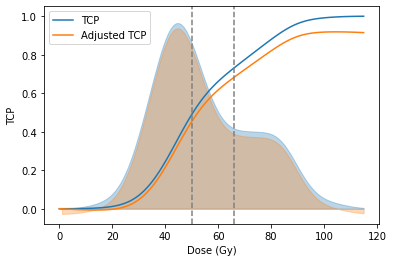
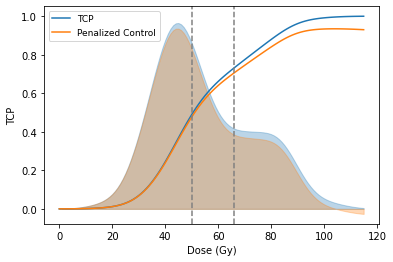
fixed NTCP; fig 2 probably ok
2c might not have handled HR vs RR correctly

diff --git a/analysis.py b/analysis.py
@@ -26,14 +26,20 @@ import plotly.graph_objs as go
 from sklearn.neighbors import KernelDensity
 from sklearn.cluster import KMeans
 from sklearn.mixture import GaussianMixture
+from scipy.stats import norm
+from scipy import special
+erf = special.erf
+pdf = norm.pdf
+cdf = norm.cdf
+ppf = norm.ppf
 
 
 # load data; alpha_g calculated with the constants below, then GARD calculated
 # with patient-specific n, d
-df = pd.read_csv('/Users/Emily/tnbc/data.csv')
+df = pd.read_csv('data.csv')
 # nsclc = pd.read_csv('/Users/Emily/tnbc/lc_data.csv')
 df = df.drop(columns=['Unnamed: 0'])
-tcc = pd.read_csv('/Users/Emily/tnbc/TCCdata.csv')
+tcc = pd.read_csv('TCCdata.csv')
 tcc.insert(1, 'Source', 'TCC')
 
 # constants/calculations
@@ -52,7 +58,7 @@ tcc['alpha_g'] = ag
 gard = n*d*(ag+beta*d)
 tcc['GARD'] = gard
 '''
-# set cut-point, SOC range
+# set cut-point, standard-of-care (SOC) range
 gard_t = 22
 high = 66 
 low = 50 
@@ -242,7 +248,7 @@ plt.scatter(gard2,p_vals2)
 # plt.yscale('log')
 plt.xlim([0,50])
 plt.ylim([-0.2,1.1])
-'''
+
 
 
 # weibull fits for event above and below cut
@@ -264,7 +270,7 @@ fig2 = s1.plot_survival_function(label='above cut')
 s2.plot_survival_function(ax=fig2, label='below cut')
 # a3.plot(ax=fig2, color='black', ci_show=False, label='combined above')
 # b3.plot(ax=fig2, color='black', linestyle='dashed', ci_show=False, label='combined below')
-
+'''
 
 # evaluate S1 fit at a value t
 # S1 is TD > GARD_T
@@ -324,7 +330,7 @@ plt.text(40, 80, str(hperc)+'% of patients require >'+str(high)+'Gy')
 plt.show()
 '''
 
-
+'''
 # fig 1c (need to run the part for 1b first though)
 # CAUTION the color cutoff depends on the bin arrangement
 # the PDF is also scaled manually
@@ -365,67 +371,105 @@ plt.ylabel("TCP")
 plt.show()'''
 
 
-# NTCP calcs
-# this fits to dosimetry data! need to rerun if new 
-def ntcp(td, side, dosi):
-        
-    coeffL = np.polyfit(dosi['Total Dose'], dosi['MHD_L'], 1) # force y-int 0?
-    coeffR = np.polyfit(dosi['Total Dose'], dosi['MHD_R'], 1)
-    coeffLung = np.polyfit(dosi['Total Dose'], dosi['MLD'], 1)
+# get coefficients for calculating cardiac/pulm radiation doses from total breast dose
+dosi = pd.read_csv('dosi_summ.csv') #dosimetry data for fits
+coeffL = np.polyfit(dosi['Total Dose'], dosi['MHD_L'], 1) # force y-int 0?
+coeffR = np.polyfit(dosi['Total Dose'], dosi['MHD_R'], 1)
+coeffLung = np.polyfit(dosi['Total Dose'], dosi['MLD'], 1)
+
+# calc mean heart dose then card RR from total breast dose
+def rr_card(td, side):
+    
     mhdL = np.poly1d(coeffL)
     mhdR = np.poly1d(coeffR)
+    
+    card_slope = 0.074 
+    
+    if side == 'L': 
+        rr = card_slope * (mhdL(td)-mhdL(0))
+        
+    if side == 'R': 
+        rr = card_slope * (mhdR(td)-mhdR(0))
+    
+    return rr + 1
+    
+    
+# calc mean lung dose then pulm HR from total breast dose
+def hr_pulm(td):
+    
     mld = np.poly1d(coeffLung)
     
     # constants
     b0 = -3.87 # from QUANTEC lung
     b1 = 0.126 # from QUANTEC lung
     
-    card_base = 0. # what should this baseline be? 0?
-    card_slope = 0.074 
+    hr = np.exp(b0+b1*mld(td))/(1+np.exp(b0+b1*mld(td))) - np.exp(b0)/(1+np.exp(b0))    
     
-    # ntcp from OAR dose
-    ntcp_cardL = card_base + card_slope * (mhdL(td) - mhdL(0))
-    ntcp_cardR = card_base + card_slope * (mhdR(td) - mhdR(0))
-    ntcp_pulm = np.exp(b0+b1*mld(td))/(1+np.exp(b0+b1*mld(td))) - np.exp(b0)/(1+np.exp(b0))    
+    return hr
 
-    if side == 'L': 
-        return ntcp_cardL + ntcp_pulm
+
+# NTCP calcs
+# this fits to dosimetry data! need to rerun if new 
+# NEEDS TO BE FIXED
+def ntcp(tcp, td, side):
+     
+    rr = rr_card(td, side)
+    hr = hr_pulm(td)
     
-    if side == 'R': 
-        return ntcp_cardR + ntcp_pulm
+    print(rr, hr)
     
-    if side == 'plot':
-        return ntcp_cardL, ntcp_cardR, ntcp_pulm
+    return np.power(tcp, np.exp(hr))
+
     
+# t = np.linspace(0,10)
+# lc = s2(t)
+# plc = ntcp(lc, 70, 'L', dosi)
+# plt.plot(t,lc)
+# plt.plot(t,plc)
+# plt.ylim([0,1])
+   
+ 
 # fig 2b
-'''td = np.linspace(0,90,91)
-dosi = pd.read_csv('/Users/Emily/tnbc/dosi_summ.csv')
-ntcp_cardL, ntcp_cardR, ntcp_pulm = ntcp(td, 'plot', dosi)
-fig, ax = plt.subplots()
-plt.plot(td, ntcp_cardL, label="Major Cardiac Event (L)")
-plt.plot(td, ntcp_cardR, label="Major Cardiac Event (R)")
-plt.plot(td, ntcp_pulm, label="Pneumonitis")
+td = np.linspace(0,90,91)
+# from table 3, lifetime risk for 45yo women, total events related to atherosclerotic disease
+# https://www.ncbi.nlm.nih.gov/pmc/articles/PMC3336876/
+pts_strat = np.array([7.1, 14.4, 22, 40.1, 16.4])/100
+strat_mce = np.array([4.1, 12.2, 15.6, 20.2, 30.7])/100
+card_base = np.sum(pts_strat*strat_mce)
+
+hr_cL = (rr_card(td,'L') - 1) * card_base
+hr_cR = (rr_card(td,'R') - 1) * card_base
+hr_p = hr_pulm(td)
+
+fig, ax = plt.subplots(figsize=(10,7))
+plt.plot(td, hr_cL, color=(.1,.3,.7), label="Major Cardiac Event (L)")
+plt.plot(td, hr_cR, color=(.1,.4,.7), label="Major Cardiac Event (R)")
+plt.plot(td, hr_p, color=(0,.6,.5), label="Pneumonitis")
 plt.axvline(x=low, color='gray', linestyle='dashed')
 plt.axvline(x=high, color='gray', linestyle='dashed')
 plt.xlabel("Dose (Gy)")
-plt.ylabel("NTCP")
-ax.yaxis.set_major_formatter(FuncFormatter(lambda y, _: '{:.0%}'.format(y))) 
-plt.legend()'''
+plt.ylabel("NTCP") # by HR
+plt.ylim([0,0.05])
+ax.yaxis.set_major_formatter(FuncFormatter(lambda y, _: '{:0.0%}'.format(y))) 
+plt.legend()
+
 
 # fig 2c; need to run code for other parts of plot 2 first
-'''fig = plt.plot()
+fig = plt.plot(figsize=(20,7))
 x = np.linspace(0,115,116)
 scale = 38 # idk if this is the right scale but it's eyeballed
-
+# TCP = unpenalized local control
 kde = stats.gaussian_kde(df['RxRSI'])
-curve1 = kde(x) # idk if this is the right scale but it's eyeballed
+curve1 = kde(x)
 plt.fill_between(x, y1=scale*curve1, y2=0, color='tab:blue', alpha=0.3) 
 pdf1 = kde.evaluate(x)/sum(kde.evaluate(x))
 cdf1 = np.cumsum(pdf1)
 plt.plot(x, cdf1, color='tab:blue', label="TCP")
-
-cdf2 = cdf1 - ntcp_card - ntcp_card
-plt.plot(x, cdf2, color='tab:orange', label="Adjusted TCP")
+# TCP - NTCP = penalized
+hr_p = hr_pulm(x)
+hr_c = card_base/2 * (rr_card(x,'L') + rr_card(x,'R') - 2)
+cdf2 = cdf1*(1-hr_p-hr_c)
+plt.plot(x, cdf2, color='tab:orange', label="Penalized Control")
 pdf2 = np.diff(cdf2) #THIS ASSUMES Y-VALUES ARE 1 APART
 plt.fill_between(x[1:], y1=scale*pdf2, y2=0, color='tab:orange', alpha=0.3)
 
@@ -433,14 +477,43 @@ plt.axvline(x=low, color='gray', linestyle='dashed')
 plt.axvline(x=high, color='gray', linestyle='dashed')
 plt.xlabel("Dose (Gy)")
 plt.ylabel("TCP")
-plt.legend()
-plt.show()'''
+plt.legend(fontsize=9)
+plt.show()
 
 
-# supp 2 Gaussian mixture modeling to compare modes of different cohorts?
+# '''# supp 2 Gaussian mixture modeling to compare modes of different cohorts? or does KS compare
 # copied from Geoff's code
+from sklearn import mixture
+
+def create_kde(array, bandwidth=None):
+    """ calculating KDE and CDF using scipy """
+    if bandwidth == None:
+        bw = 'scott'
+    else:
+        bw = bandwidth
+    kde = stats.gaussian_kde(dataset=array,bw_method=bw)
+    
+    num_test_points=200
+    x = np.linspace(0,np.max(array)*1.2,num_test_points)
+    kdens=kde.pdf(x)
+    
+    cdf=np.zeros(shape=num_test_points)
+    for i in range(num_test_points):
+        cdf[i] = kde.integrate_box_1d(low=0,high=x[i])
+        
+    return x,kdens,cdf
+
+
+def calc_cdf(array,var,bandwidth=None):
+    if bandwidth == None:
+        bw = 1.2*array.std()*np.power(array.size,-1/5)
+    else:
+        bw = bandwidth
+    kde=stats.gaussian_kde(dataset=array,bw_method=bw)
+    return kde.integrate_box_1d(low=0,high=var)
+
 # unclear whaat to do with this rn
-'''def construct_kde(array, bandwidth=None):
+def construct_kde(array, bandwidth=None):
     
     if bandwidth == None:
         bw = 1.2*array.std()*np.power(array.size,-1/5) # this appears to be from wiki for bimodal KDE
@@ -461,15 +534,107 @@ plt.show()'''
 
     return x, kdens, cdf_array
 
-nki_kde = construct_kde(nki['RSI'].to_numpy())
-plt.scatter(x=nki_kde[0],y=nki_kde[1])
+# nki_kde = construct_kde(nki['RSI'].to_numpy())
+# plt.scatter(x=nki_kde[0],y=nki_kde[1])
 
-mcc_kde = construct_kde(mcc['RSI'].to_numpy())
-plt.scatter(x=mcc_kde[0],y=mcc_kde[1])
+# mcc_kde = construct_kde(mcc['RSI'].to_numpy())
+# plt.scatter(x=mcc_kde[0],y=mcc_kde[1])
 
-tcc_kde = construct_kde(tcc['RSI'].to_numpy())
-plt.scatter(x=tcc_kde[0],y=tcc_kde[1])
-'''
+# tcc_kde = construct_kde(tcc['RSI'].to_numpy())
+# plt.scatter(x=tcc_kde[0],y=tcc_kde[1])
+
+r1=nki["RSI"].values
+r2= tcc["RSI"].values
+r1=r1.reshape(-1,1)
+r2=r2.reshape(-1,1)
+gm1 = mixture.GaussianMixture(n_components=2)#,covariance_type='full')
+gm1.fit(X=r1)
+m1 = gm1.means_.ravel()
+se1, wt1 = [np.sqrt(gm1.covariances_).ravel(), gm1.weights_.ravel()]
+m1, se1
+gm2 = mixture.GaussianMixture(n_components=2,covariance_type='full')
+gm2.fit(X=r2)
+m2 = gm2.means_.ravel()
+se2, wt2 = [np.sqrt(gm2.covariances_).ravel(), gm2.weights_.ravel()]
+m2, se2
+
+colrs = [(.9,.35,.2), (.1, .7, .7)]
+# fig, ax = plt.subplots()
+# for i in range(2):
+#     xi = np.arange(m1[i]-3*se1[i], m1[i]+3*se1[i], .001)
+#     yi = norm.pdf(xi,m1[i],se1[i])*wt1[i]**1.3
+#     ax.plot(xi,yi, color = colrs[i])
+# kde1 = create_kde(r1.ravel())
+# ax.plot(kde1[0], kde1[1]*1.1, color = (.4,.4,.4),lw=1)
+# hist1 = np.histogram(r1,bins=np.arange(0,.8,.05),density=True,)
+# ax.bar(x=hist1[1][0:-1], height = hist1[0]*.7, width=.04, align = 'edge', alpha = .2, color=(.5,.5,.5))
+# ax.set_xlim(0,.7)
+# ax.set_yticks([])
+
+fig, axes = plt.subplots(nrows=1,ncols=2,figsize=(12,4))
+""" --------- first subplot ------------- """
+ax = axes[0]
+for i in range(2):
+    xi = np.arange(m1[i]-3*se1[i], m1[i]+3*se1[i], .001)
+    yi = norm.pdf(xi,m1[i],se1[i])*wt1[i]**1.3
+
+    ax.plot(xi,yi, color = colrs[i])
+
+kde1 = create_kde(r1.ravel())
+ax.plot(kde1[0], kde1[1]*1.1, color = (.4,.4,.4),lw=1.25)
+
+hist1 = np.histogram(r1,bins=np.arange(0,.8,.05),density=True,)
+ax.bar(x=hist1[1][0:-1], height = hist1[0]*.7, width=.04, align = 'edge', alpha = .2, color=(.5,.5,.5))
+
+ax.axvline(x=.295, ls='--', color='k', lw=1)
+ax.axvline(x=.475, ls='--', color='k', lw=1)
+
+string_text = "mean: %.3f\nscale: %.3f" % (m1[0], se1[0])
+ax.text(x=.1, y= .5, s = string_text, transform = ax.transAxes, fontsize=9)
+string_text = "mean: %.3f\nscale: %.3f" % (m1[1], se1[1])
+ax.text(x=.7, y= .5, s = string_text, transform = ax.transAxes, fontsize=9)
+
+ax.set_xlim(0,.7)
+ax.set_yticks([])
+ax.set_ylabel("Density")
+ax.set_title("(A)",loc = 'left')
+ax.set_xlabel("RSI")
+
+""" --------- second subplot ------------- """
+ax = axes[1]
+
+kde2 = create_kde(r2.ravel())
+ax.plot(kde2[0], kde2[1], color = (.4,.4,.4),lw=1.25, label='Composite KDE')
+
+hist2 = np.histogram(r2,bins=np.arange(0,.8,.05),density=True,)
+ax.bar(x=hist2[1][0:-1], height = hist2[0]*.8, width=.04, align = 'edge', alpha = .2, color = (.5,.5,.5))
+
+ax.axvline(x=.295, ls='--', color='k', lw=1)
+ax.axvline(x=.475, ls='--', color='k', lw=1)
+
+labels = ["Gaussian Mode 1", "Gaussian Mode 2"]
+for i in range(2):
+    xi = np.arange(m2[i]-3*se2[i], m2[i]+3*se2[i], .001)
+    yi = norm.pdf(xi,m2[i],se2[i])*wt2[i]**1.3
+
+    ax.plot(xi,yi,color = colrs[i], label = labels[i])
+
+string_text = "mean: %.3f\nscale: %.3f" % (m2[0], se2[0])
+ax.text(x=.1, y= .5, s = string_text, transform = ax.transAxes,fontsize=9)
+string_text = "mean: %.3f\nscale: %.3f" % (m2[1], se2[1])
+ax.text(x=.75, y= .5, s = string_text, transform = ax.transAxes,fontsize=9)
+
+ax.set_xlim(0,.7)
+ax.set_yticks([])
+ax.set_title("(B)", loc = 'left')
+ax.set_xlabel("RSI")
+
+ax.legend(bbox_to_anchor = (1.05,0.6))
+
+fig.subplots_adjust(wspace=.1,left=.04, right= .8)
+
+# plt.savefig('/Users/geoffreysedor/gui_app/Supplemental/Figures/'+'dist_comparison', dpi =300) #, edgecolor='black', linewidth=4)'''
+
 
 '''
 # time to simulate boost/no boost
@@ -480,7 +645,7 @@ high = 66
 rsi_l = np.exp(-n*d*cut/low) 
 rsi_h = np.exp(-n*d*cut/high) 
 t = np.linspace(0,10) # time axis in years
-dosi = pd.read_csv('/Users/Emily/tnbc/dosi_summ.csv') #dosimetey data for fits
+dosi = pd.read_csv('dosi_summ.csv') #dosimetry data for fits
 
 # for 2N patients, draw from RSI distribution
 def rsi_sample(N, distr):
